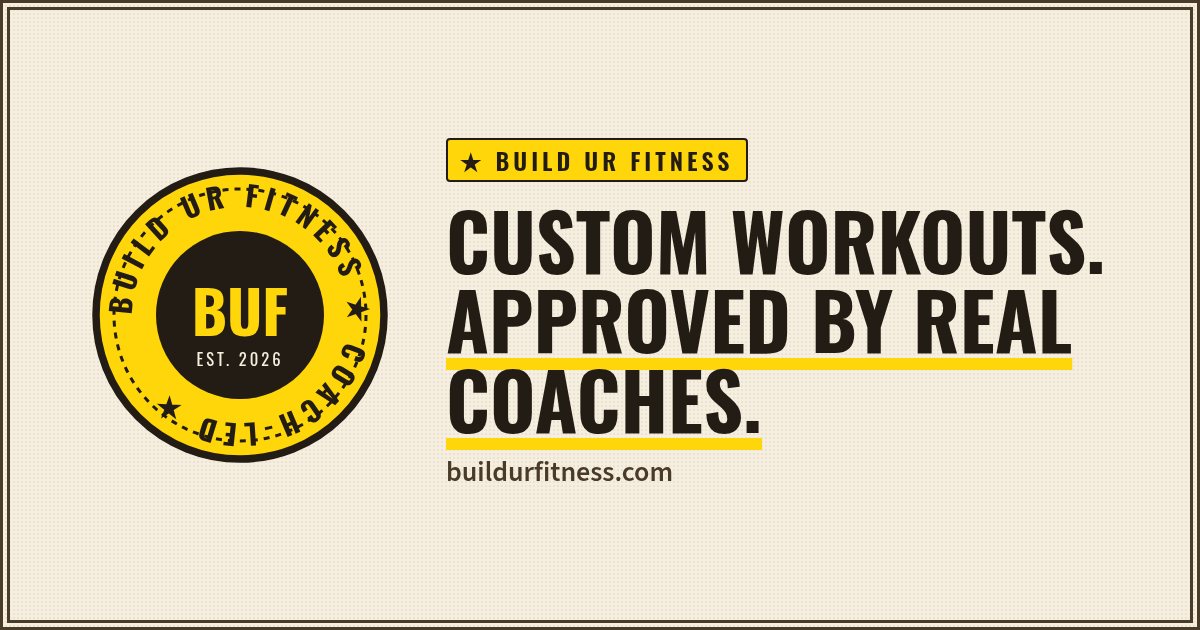
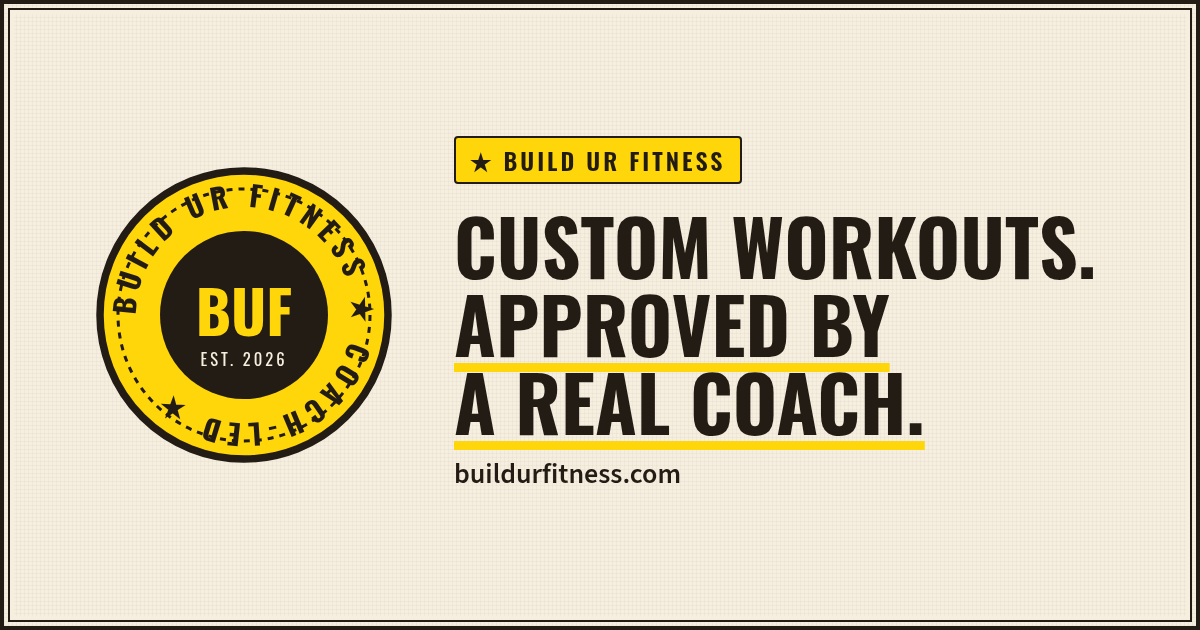
Preview: BUF app is live — Get the app CTA (buffitness.app), Coach Salim only, in-app messaging, contact form replaces waitlist, no pricing

diff --git a/index.html b/index.html
@@ -8,10 +8,10 @@
 <meta name="viewport" content="width=device-width,initial-scale=1">
 <meta name="robots" content="index,follow">
 <link rel="canonical" href="https://buildurfitness.com/">
-<title>BUF Fitness — Custom workouts, approved by real coaches</title>
-<meta name="description" content="BUF (Build Ur Fitness) builds custom workouts around you, with text check-ins and a real coach who approves every plan and every message. For people who want coaching and coaches who want to scale.">
-<meta property="og:title" content="BUF Fitness — Custom workouts, approved by real coaches">
-<meta property="og:description" content="A workout plan built around you and checked by a real coach. Join the waitlist.">
+<title>BUF Fitness — Custom workouts, approved by a real coach</title>
+<meta name="description" content="BUF (Build Ur Fitness) builds custom workouts around you, with in-app check-ins and Coach Salim, a certified coach who approves every plan and every message. The BUF app is live.">
+<meta property="og:title" content="BUF Fitness — Custom workouts, approved by a real coach">
+<meta property="og:description" content="A workout plan built around you and checked by Coach Salim. The BUF app is live.">
 <meta property="og:type" content="website">
 <meta property="og:url" content="https://buildurfitness.com/">
 <meta property="og:image" content="https://buildurfitness.com/og.png">
@@ -19,7 +19,7 @@
 <meta property="og:image:height" content="630">
 <meta name="twitter:card" content="summary_large_image">
 <meta name="twitter:url" content="https://buildurfitness.com/">
-<meta name="twitter:title" content="BUF Fitness — Custom workouts, approved by real coaches">
+<meta name="twitter:title" content="BUF Fitness — Custom workouts, approved by a real coach">
 <meta name="twitter:image" content="https://buildurfitness.com/og.png">
 <meta name="theme-color" content="#FFD60A">
 <link rel="preconnect" href="https://fonts.googleapis.com">
@@ -39,19 +39,19 @@
 <a class="skip" href="#main">Skip to content</a>
 <header><div class="wrap"><nav aria-label="Main">
 <a class="logo" href="#top"><img src="favicon.svg" alt="" width="34" height="34"><span class="wm">BUF<span>.</span></span></a>
-<ul><li><a href="#how">How it works</a></li><li><a href="#coach">Real coaches</a></li><li><a href="#meet">Meet the coach</a></li><li><a href="#features">Features</a></li><li><a href="#coaches">For coaches</a></li></ul>
-<a class="btn" href="#waitlist">Join waitlist</a>
+<ul><li><a href="#how">How it works</a></li><li><a href="#coach">Your coach</a></li><li><a href="#meet">Meet the coach</a></li><li><a href="#features">Features</a></li><li><a href="#app">The app</a></li></ul>
+<a class="btn" href="https://buffitness.app" rel="noopener">Get the app</a>
 </nav></div></header>
 <main id="main">
 <section class="hero" id="top"><div class="wrap grid">
 <div>
 <img class="badge" src="badge.svg" alt="" width="140" height="140">
 <p class="eyebrow">Build Ur Fitness</p>
-<h1>Custom workouts.<br><em>Approved by real coaches.</em></h1>
-<p class="lead">A plan built around you — your goals, your schedule, your equipment — and checked by a certified coach before you ever lift a weight. Then we keep you on track by text, with your coach in every conversation.</p>
-<div class="cta"><a class="btn" href="#waitlist">Join the waitlist</a><a class="btn ghost" href="#coaches">I'm a coach</a></div>
+<h1>Custom workouts.<br><em>Approved by a real coach.</em></h1>
+<p class="lead">A plan built around you — your goals, your schedule, your equipment — and checked by Coach Salim, a certified coach, before you ever lift a weight. Then he keeps you on track through in-app messaging, right inside the BUF app.</p>
+<div class="cta"><a class="btn" href="https://buffitness.app" rel="noopener">Get the app</a><a class="btn ghost" href="#contact">Questions? Message Coach Salim</a></div>
 </div>
-<div class="phone" role="group" aria-label="Example text conversation (illustrative)">
+<div class="phone" role="group" aria-label="Example in-app message conversation (illustrative)">
 <div class="msg ai">Morning! Today's plan: 30-min lower body + 10-min walk. Want the low-impact version since your knee was sore?<span class="tag">Approved by Coach Salim</span></div>
 <div class="msg me">Yes please, low-impact 🙏<span class="tag">You</span></div>
 <div class="msg ai">Done — swapped lunges for glute bridges. I'll check in after. Proud of the streak.<span class="tag">Reviewed by Coach Salim</span></div>
@@ -63,18 +63,18 @@
 <p class="eyebrow">How it works</p><h2>Three steps. One coach in your corner.</h2>
 <div class="cards">
 <div class="card"><span class="num">1</span><h3>Tell us your goals</h3><p>A short intake covers your goals, schedule, equipment, and any injuries or limits.</p></div>
-<div class="card"><span class="num">2</span><h3>Get a coach-approved plan</h3><p>We build a program around you; your coach reviews and fine-tunes it before you ever see it.</p></div>
-<div class="card"><span class="num">3</span><h3>Train with text check-ins</h3><p>Daily nudges, quick questions answered, plans adapted — with your coach watching the thread.</p></div>
+<div class="card"><span class="num">2</span><h3>Get a coach-approved plan</h3><p>We build a program around you; Coach Salim reviews and fine-tunes it before you ever see it.</p></div>
+<div class="card"><span class="num">3</span><h3>Train with in-app check-ins</h3><p>Daily nudges, quick questions answered, plans adapted — all in the app&rsquo;s messaging, with Coach Salim watching the thread.</p></div>
 </div></div></section>
 
 <section class="alt" id="coach"><div class="wrap split">
 <div><p class="eyebrow">Human-in-the-loop</p><h2>Not a faceless bot. A coach who knows you.</h2>
-<p class="lead">Behind the scenes, smart tools handle the busywork. Your coach makes the calls. Every plan change and every outgoing message is supervised by the coach assigned to you.</p>
-<ul class="check"><li>Your coach reviews, edits, or rewrites every plan and reply</li><li>Sensitive topics (injury, pain, nutrition concerns) route straight to your coach</li><li>You always know who your coach is — by name</li></ul></div>
+<p class="lead">Behind the scenes, smart tools handle the busywork. Coach Salim makes the calls. Every plan change and every outgoing message is supervised by him.</p>
+<ul class="check"><li>Coach Salim reviews, edits, or rewrites every plan and reply</li><li>Sensitive topics (injury, pain, nutrition concerns) go straight to Coach Salim</li><li>You work directly with Coach Salim, the only coach at BUF</li></ul></div>
 <div class="loop" role="group" aria-label="Supervision loop">
-<div><strong>You text</strong> a question or check-in</div>
+<div><strong>You message</strong> a question or check-in in the app</div>
 <div><strong>BUF prepares</strong> a reply or plan adjustment</div>
-<div><strong>Your coach</strong> approves, edits, or takes over</div>
+<div><strong>Coach Salim</strong> approves, edits, or takes over</div>
 <div><strong>You get</strong> fast, personal, accountable coaching</div>
 </div></div></section>
 
@@ -82,7 +82,7 @@
 <figure class="coach-photo"><picture><source srcset="img/coach-salim-800.webp" type="image/webp"><img src="img/coach-salim-800.jpg" alt="Coach Salim Heyaime holding an L-sit on parallettes in the gym" width="800" height="900" loading="lazy"></picture></figure>
 <div><p class="eyebrow">Meet the coach</p><h2>Coach Salim Heyaime.</h2>
 <p class="lead">BUF is built by Salim Heyaime, known to his clients as Coach Salim. He has been coaching since 2017 and runs online coaching from Herriman, Utah through Coach Salim Heyaime LLC. He is also the author of <a href="https://www.amazon.com/dp/B0HN22P5F4" rel="noopener"><em>A Challenge to Move</em></a>.</p>
-<p>BUF is how he plans to bring that coaching to more people: a plan built around you, checked by a real coach.</p>
+<p>BUF is how he brings that coaching to more people: a plan built around you, checked by him, with check-ins right inside the app.</p>
 <h3>Credentials</h3>
 <ul class="creds">
 <li>ADEPC</li>
@@ -106,34 +106,34 @@
 <p class="eyebrow">Features</p><h2>Everything you need to actually show up.</h2>
 <div class="cards">
 <div class="card"><h3>Adaptive training plans</h3><p>Programs that adjust to your progress, schedule, and recovery.</p></div>
-<div class="card"><h3>Text-first check-ins</h3><p>Coaching where you already are — your messages, no extra app to open every time.</p></div>
+<div class="card"><h3>In-app check-ins</h3><p>Message Coach Salim inside the BUF app — check-ins, questions and plan changes in one thread.</p></div>
 <div class="card"><h3>Progress tracking</h3><p>Workouts, streaks, and milestones in one clear view.</p></div>
 <div class="card"><h3>Habit &amp; nutrition nudges</h3><p>Simple, sustainable habits — guidance, not medical advice.</p></div>
-<div class="card"><h3>Coach-reviewed messages</h3><p>Every message you get has been read and approved by a real coach.</p></div>
+<div class="card"><h3>Coach-reviewed messages</h3><p>Every message you get has been read and approved by Coach Salim.</p></div>
 <div class="card"><h3>Privacy-minded</h3><p>Your data is used to coach you, and we never sell it. Read the <a href="/privacy/">privacy policy</a>.</p></div>
 </div></div></section>
 
-<section class="alt" id="coaches"><div class="wrap split">
-<div><p class="eyebrow">For coaches</p><h2>Coach more people without coaching less.</h2>
-<p class="lead">BUF drafts plans and replies so you can supervise more clients with the same care. Your expertise, your voice, your brand.</p>
-<ul class="check"><li><strong>White-label:</strong> your logo, colors, and name on the client experience</li><li><strong>Seats:</strong> add assistant coaches and share client rosters</li><li><strong>Approval queue:</strong> review drafted plans and replies in one place, approve in a tap</li><li><strong>Your rules:</strong> set tone, boundaries, and what always escalates to you</li></ul>
-<a class="btn" href="#waitlist">Apply for early coach access</a></div>
-<div class="card note"><h3>Early coach access</h3><p>Coach pricing and launch details haven&rsquo;t been announced yet. Join the waitlist as a coach and you&rsquo;ll hear first, before BUF opens to the public.</p><p><a href="#waitlist">Join as a coach &rarr;</a></p></div>
+<section class="alt" id="app"><div class="wrap split">
+<div><p class="eyebrow">The BUF app</p><h2>BUF is live. Start training with Coach Salim.</h2>
+<p class="lead">Your intake, your coach-approved plan and your check-ins live in the BUF app. You work directly with Coach Salim from day one.</p>
+<ul class="check"><li><strong>Your plan:</strong> built around your goals, schedule and equipment, approved by Coach Salim</li><li><strong>In-app messaging:</strong> check in, ask questions and get plan changes inside the app</li><li><strong>Progress:</strong> workouts, streaks and milestones in one view</li><li><strong>One coach:</strong> no handoffs. Coach Salim is the coach behind every plan and reply</li></ul>
+<a class="btn" href="https://buffitness.app" rel="noopener">Get the app</a></div>
+<div class="card note"><h3>Working with Coach Salim</h3><p>Every BUF client works directly with Coach Salim. Not sure where to start, or want to ask about your goals first? Send him a message and he&rsquo;ll get back to you.</p><p><a href="#contact">Message Coach Salim &rarr;</a></p></div>
 </div></section>
 
-<section class="alt" id="waitlist"><div class="wrap split">
-<div><p class="eyebrow">Early access</p><h2>Join the BUF waitlist.</h2><p class="lead">Be first to know when BUF opens — whether you want a coach or you are one.</p><p class="small">We&rsquo;ll only use your details to contact you about BUF. See the <a href="/privacy/">privacy policy</a>.</p></div>
+<section id="contact"><div class="wrap split">
+<div><p class="eyebrow">Questions?</p><h2>Message Coach Salim.</h2><p class="lead">Want to ask something before you get the app? Send a note and Coach Salim will reply by email.</p><p class="small">We&rsquo;ll only use your details to reply to you about BUF. See the <a href="/privacy/">privacy policy</a>.</p></div>
 <form action="https://formsubmit.co/coachsalimheyaime@gmail.com" method="POST">
-<input type="hidden" name="_subject" value="BUF waitlist">
+<input type="hidden" name="_subject" value="BUF question">
 <input type="hidden" name="_template" value="table">
 <input type="hidden" name="_captcha" value="true">
 <input type="hidden" name="_next" value="https://buildurfitness.com/thanks/">
 <input type="text" name="_honey" class="hp" tabindex="-1" autocomplete="off" aria-hidden="true">
 <label>Name<input type="text" name="name" required autocomplete="name"></label>
 <label>Email<input type="email" name="email" required autocomplete="email"></label>
-<label>I am…<select name="role"><option>Looking for a coach</option><option>A coach interested in BUF</option><option>Other</option></select></label>
-<label>Goals or questions (optional)<textarea name="message" rows="3"></textarea></label>
-<button class="btn" type="submit">Join the waitlist</button>
+<label>I am…<select name="role"><option>Thinking about BUF</option><option>Already using the app</option><option>Other</option></select></label>
+<label>Your question<textarea name="message" rows="3" required></textarea></label>
+<button class="btn" type="submit">Send message</button>
 </form></div></section>
 </main>
 <footer><div class="wrap foot">

diff --git a/privacy/index.html b/privacy/index.html
@@ -23,7 +23,7 @@
 <a class="skip" href="#main">Skip to content</a>
 <header><div class="wrap"><nav aria-label="Main">
 <a class="logo" href="/"><img src="/favicon.svg" alt="" width="34" height="34"><span class="wm">BUF<span>.</span></span></a>
-<a class="btn" href="/#waitlist">Join waitlist</a>
+<a class="btn" href="https://buffitness.app" rel="noopener">Get the app</a>
 </nav></div></header>
 <main id="main"><section><div class="wrap legal">
 <p class="eyebrow">Policies</p>
@@ -32,14 +32,14 @@
 <p>This policy explains what information buildurfitness.com collects and how it is used. The site is operated by <strong>Coach Salim Heyaime LLC</strong>, a Utah limited liability company (&ldquo;BUF,&rdquo; &ldquo;we,&rdquo; &ldquo;us&rdquo;). BUF (Build Ur Fitness) is a Coach Salim Heyaime LLC project. Questions? Email <a href="mailto:coachsalimheyaime@gmail.com?subject=BUF%20privacy">coachsalimheyaime@gmail.com</a>.</p>
 
 <h2>1. What we collect</h2>
-<p><strong>Waitlist form.</strong> When you join the waitlist, we collect the details you type in: your name, your email address, whether you are looking for a coach or are a coach, and any goals or questions you choose to share. Please don&rsquo;t include medical or other sensitive information in the message box.</p>
+<p><strong>Contact form.</strong> When you message Coach Salim through the contact form, we collect the details you type in: your name, your email address, the option that best describes you, and your message. Please don&rsquo;t include medical or other sensitive information in the message box.</p>
 <p><strong>Usage data.</strong> We use Google Analytics (Google Analytics 4) to understand how people use the site: pages viewed, how you arrived, approximate location (city or region), device, browser and similar technical details. Google Analytics uses cookies and similar technologies to do this.</p>
 <p><strong>Server and font requests.</strong> The site is hosted on GitHub Pages and loads fonts from Google Fonts. Like any website, those services receive your IP address and basic browser information when your device requests a page or a font.</p>
 <p>We don&rsquo;t ask for payment details, and the site has no user accounts.</p>
 
 <h2>2. How we use it</h2>
 <ul>
-<li>To contact you about BUF: launch news, early access and replies to your questions.</li>
+<li>To reply to your message and contact you about BUF.</li>
 <li>To understand which pages are useful and improve the site.</li>
 <li>To keep the form free of spam and abuse.</li>
 </ul>
@@ -47,7 +47,7 @@
 
 <h2>3. Services that process your information</h2>
 <ul>
-<li><strong>FormSubmit</strong> (formsubmit.co) delivers waitlist form entries to our email inbox. It may show a captcha to block spam. See <a href="https://formsubmit.co/privacy.pdf" rel="noopener">FormSubmit&rsquo;s privacy policy</a>.</li>
+<li><strong>FormSubmit</strong> (formsubmit.co) delivers contact form messages to our email inbox. It may show a captcha to block spam. See <a href="https://formsubmit.co/privacy.pdf" rel="noopener">FormSubmit&rsquo;s privacy policy</a>.</li>
 <li><strong>Google</strong> provides Google Analytics, Google Fonts and the Gmail inbox where form entries arrive. See <a href="https://policies.google.com/privacy" rel="noopener">Google&rsquo;s privacy policy</a>.</li>
 <li><strong>GitHub</strong> hosts the site. See <a href="https://docs.github.com/en/site-policy/privacy-policies/github-general-privacy-statement" rel="noopener">GitHub&rsquo;s privacy statement</a>.</li>
 </ul>
@@ -57,7 +57,7 @@
 <p>You can block or delete cookies in your browser settings, or install the <a href="https://tools.google.com/dlpage/gaoptout" rel="noopener">Google Analytics opt-out add-on</a>. The site still works without analytics cookies.</p>
 
 <h2>5. How long we keep it</h2>
-<p>We keep waitlist entries until BUF launches or until you ask us to remove you, whichever comes first, unless you become a client, in which case we keep what we need to coach you. Google Analytics data is kept according to the retention setting in our Analytics account.</p>
+<p>We keep contact form messages for as long as we need them to answer you, or until you ask us to delete them, whichever comes first, unless you become a client, in which case we keep what we need to coach you. Google Analytics data is kept according to the retention setting in our Analytics account.</p>
 
 <h2>6. Your rights</h2>
 <p>You can ask us to show you, correct or delete the information you sent through the form, or to stop emailing you. Email <a href="mailto:coachsalimheyaime@gmail.com?subject=BUF%20privacy%20request">coachsalimheyaime@gmail.com</a> and we&rsquo;ll respond within 30 days. Depending on where you live, you may have additional rights under local law.</p>
@@ -66,7 +66,7 @@
 <p>This site is not directed to children under 13, and we don&rsquo;t knowingly collect information from them. If you believe a child has sent us information, email us and we&rsquo;ll delete it.</p>
 
 <h2>8. Security</h2>
-<p>The site is served over HTTPS. No method of sending or storing information online is perfectly secure, but we limit access to waitlist entries to the people who need them to run BUF.</p>
+<p>The site is served over HTTPS. No method of sending or storing information online is perfectly secure, but we limit access to contact form messages to the people who need them to run BUF.</p>
 
 <h2>9. Changes to this policy</h2>
 <p>If we change this policy, we&rsquo;ll update it here and change the date at the top.</p>

diff --git a/thanks/index.html b/thanks/index.html
@@ -7,7 +7,7 @@
 <meta charset="utf-8">
 <meta name="viewport" content="width=device-width,initial-scale=1">
 <meta name="robots" content="noindex">
-<title>You're on the list | BUF Fitness</title>
+<title>Message sent | BUF Fitness</title>
 <meta name="theme-color" content="#FFD60A">
 <link rel="preconnect" href="https://fonts.googleapis.com">
 <link rel="preconnect" href="https://fonts.gstatic.com" crossorigin>
@@ -21,14 +21,14 @@
 <a class="skip" href="#main">Skip to content</a>
 <header><div class="wrap"><nav aria-label="Main">
 <a class="logo" href="/"><img src="/favicon.svg" alt="" width="34" height="34"><span class="wm">BUF<span>.</span></span></a>
-<a class="btn" href="/#waitlist">Join waitlist</a>
+<a class="btn" href="https://buffitness.app" rel="noopener">Get the app</a>
 </nav></div></header>
 <main id="main"><section><div class="wrap legal">
 <p class="eyebrow">Thanks</p>
-<h1>You&rsquo;re on the list.</h1>
-<p class="lead">Thanks for joining the BUF waitlist. We&rsquo;ll email you with BUF news and early access.</p>
-<p>Can&rsquo;t wait? Coach Salim also coaches online at <a href="https://coachsalimheyaime.com/" rel="noopener">coachsalimheyaime.com</a>.</p>
-<p><a class="btn" href="/">Back to BUF</a></p>
+<h1>Thanks, your message is in.</h1>
+<p class="lead">Coach Salim reads every message himself and will reply by email.</p>
+<p>Ready to start? The BUF app is live. You can also learn more about Coach Salim at <a href="https://coachsalimheyaime.com/" rel="noopener">coachsalimheyaime.com</a>.</p>
+<p class="cta"><a class="btn" href="https://buffitness.app" rel="noopener">Get the app</a><a class="btn ghost" href="/">Back to BUF</a></p>
 </div></section></main>
 <footer><div class="wrap foot">
 <p>&copy; 2026 Coach Salim Heyaime LLC, Utah. BUF (Build Ur Fitness) is a Coach Salim Heyaime LLC project. BUF provides fitness coaching, not medical advice.</p>

diff --git a/404.html b/404.html
@@ -21,13 +21,13 @@
 <a class="skip" href="#main">Skip to content</a>
 <header><div class="wrap"><nav aria-label="Main">
 <a class="logo" href="/"><img src="/favicon.svg" alt="" width="34" height="34"><span class="wm">BUF<span>.</span></span></a>
-<a class="btn" href="/#waitlist">Join waitlist</a>
+<a class="btn" href="https://buffitness.app" rel="noopener">Get the app</a>
 </nav></div></header>
 <main id="main"><section><div class="wrap legal">
 <p class="eyebrow">404</p>
 <h1>Page not found.</h1>
 <p class="lead">That page doesn&rsquo;t exist or has moved.</p>
-<p class="cta"><a class="btn" href="/">Go to the home page</a><a class="btn ghost" href="/#waitlist">Join the waitlist</a></p>
+<p class="cta"><a class="btn" href="/">Go to the home page</a><a class="btn ghost" href="https://buffitness.app" rel="noopener">Get the app</a></p>
 </div></section></main>
 <footer><div class="wrap foot">
 <p>&copy; 2026 Coach Salim Heyaime LLC, Utah. BUF (Build Ur Fitness) is a Coach Salim Heyaime LLC project. BUF provides fitness coaching, not medical advice.</p>
